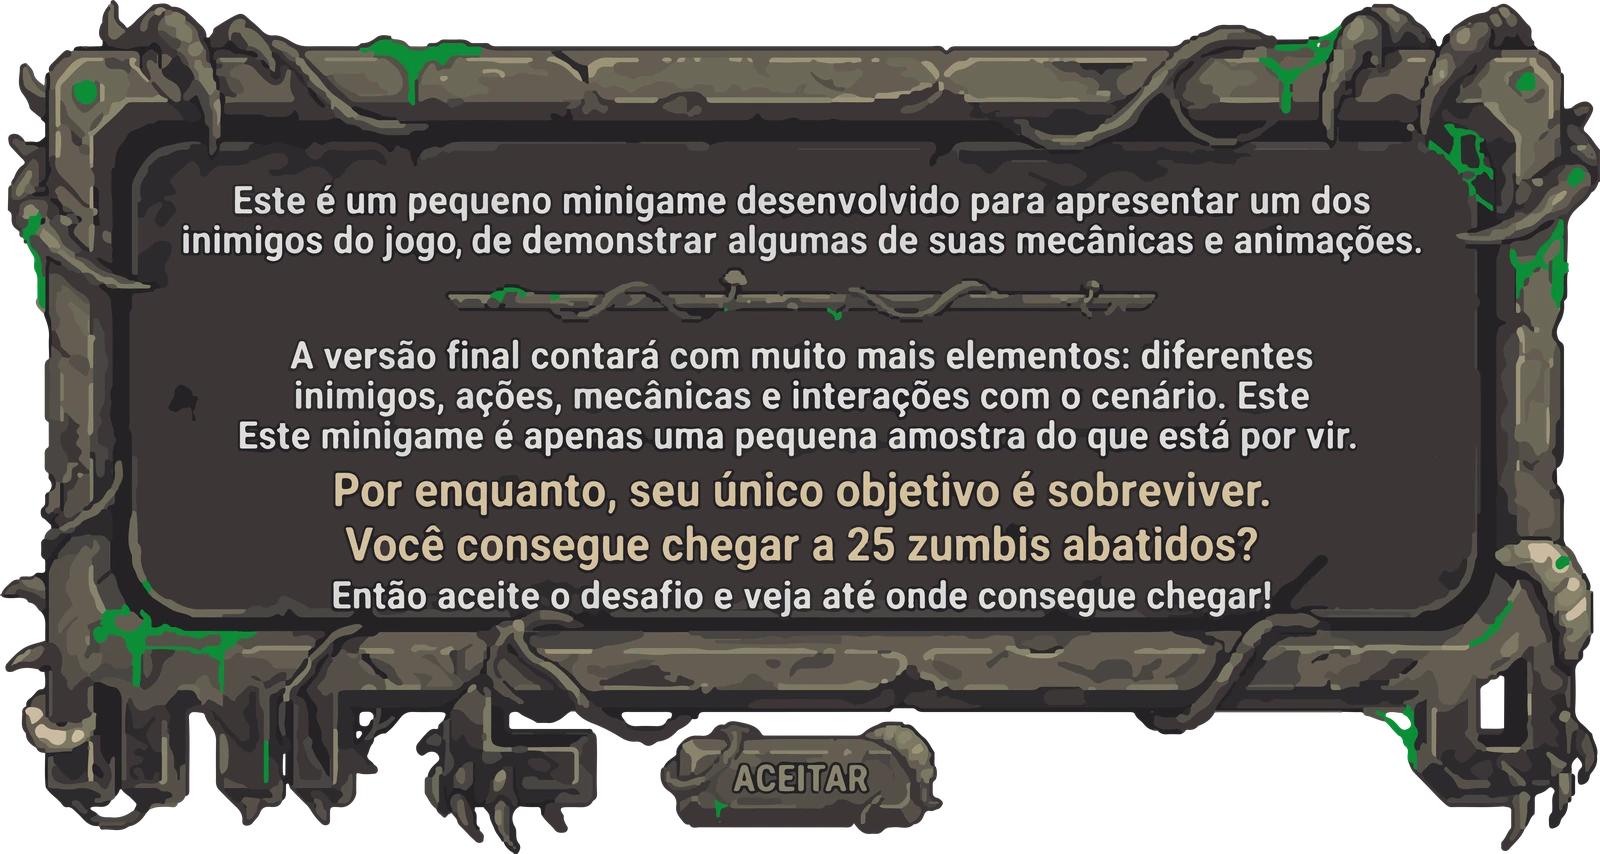
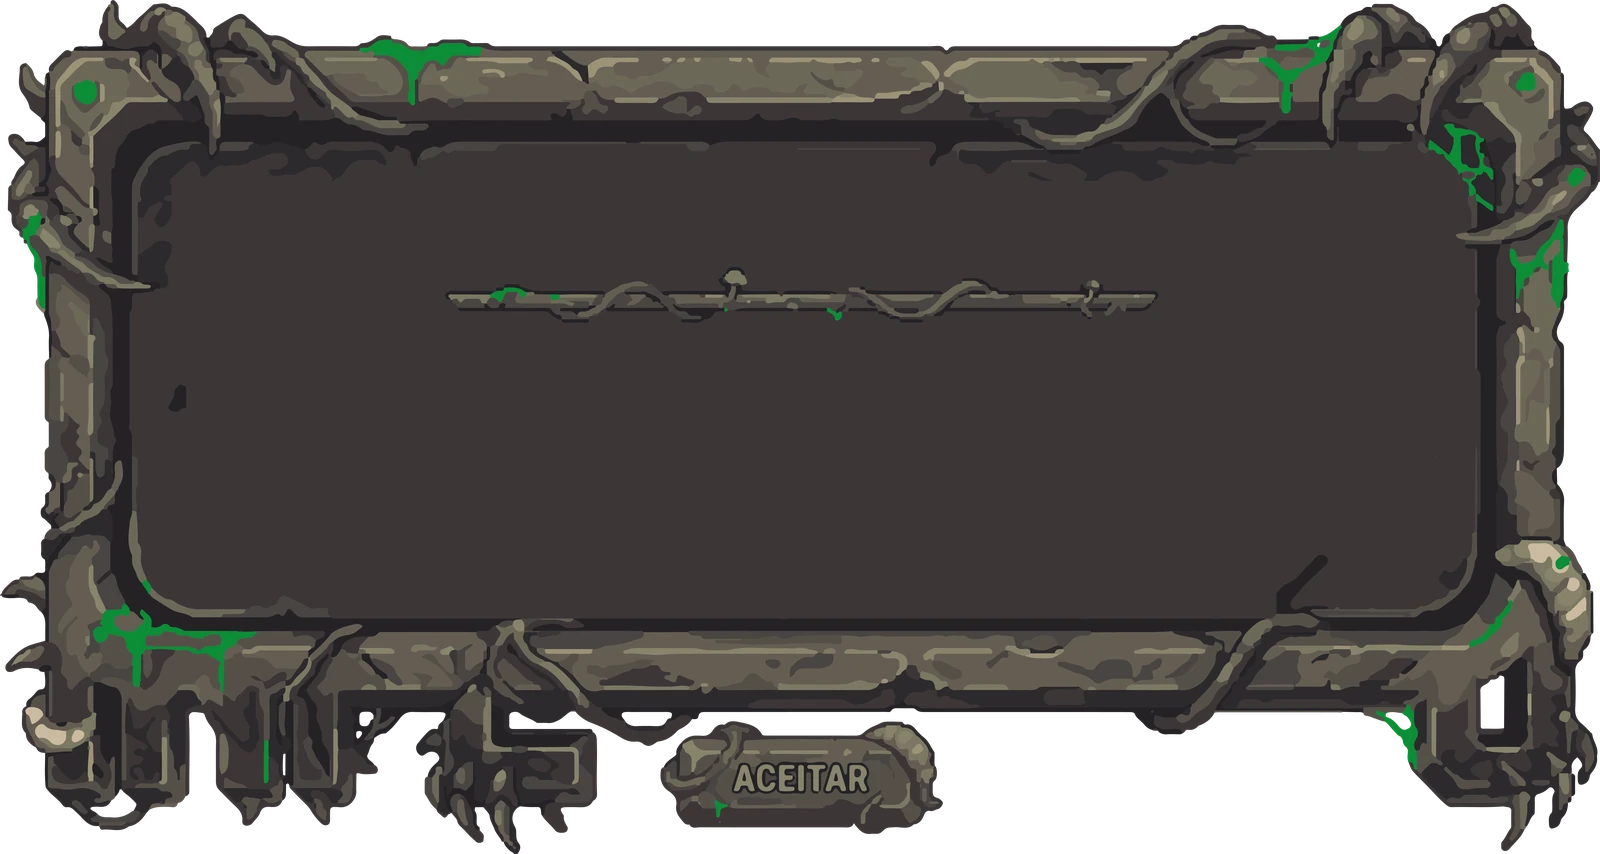
Placa do minigame: arte nova sem texto + texto revisado aplicado por cima (PT/EN)
Claude-Session: https://claude.ai/code/session_01DstFmW5tX6ZHGuroGRv8iB

Changed region(s): [[0.125, 0.3958, 0.8438, 0.7307], [0.0938, 0.2131, 0.9062, 0.3044]]

diff --git a/js/game.js b/js/game.js
@@ -835,8 +835,15 @@
     warn.innerHTML = `
       <div class="gwarn__backdrop"></div>
       <div class="gwarn__box" role="dialog" aria-modal="true" aria-label="Infestação — minigame">
-        <img class="gwarn__img" src="assets/game/placa_aviso.webp" width="1600" height="854"
-          alt="Este é um pequeno minigame desenvolvido para apresentar um dos inimigos do jogo e demonstrar algumas de suas mecânicas e animações. A versão final contará com muito mais elementos. Por enquanto, seu único objetivo é sobreviver. Você consegue chegar a 25 zumbis abatidos?">
+        <img class="gwarn__img" src="assets/game/placa_aviso.webp" width="1600" height="854" alt="">
+        <div class="gwarn__text">
+          <p class="gwarn__top" data-w="p1"></p>
+          <div class="gwarn__bottom">
+            <p data-w="p2"></p>
+            <p class="gwarn__gold" data-w="p3"></p>
+            <p data-w="p4"></p>
+          </div>
+        </div>
         <button type="button" class="gwarn__ok"><img src="assets/game/aceitar.png" alt="Aceitar" width="560" height="224"></button>
         <button type="button" class="gwarn__x" aria-label="Fechar">×</button>
       </div>`;
@@ -848,8 +855,27 @@
       if (e.key === "Escape") { e.preventDefault(); closeWarn(); }
     });
   }
+  const WARN_TXT = {
+    pt: {
+      p1: "Este é um pequeno minigame desenvolvido para apresentar um dos inimigos do jogo, além de demonstrar algumas de suas mecânicas e animações.",
+      p2: "A versão final contará com muito mais elementos: diferentes inimigos, ações, mecânicas e interações com o cenário. Este minigame é apenas uma pequena amostra do que está por vir.",
+      p3: "Por enquanto, seu único objetivo é sobreviver.<br>Você consegue chegar a 25 zumbis abatidos?",
+      p4: "Então aceite o desafio e veja até onde consegue chegar!",
+      ok: "Aceitar"
+    },
+    en: {
+      p1: "This is a small minigame made to introduce one of the game's enemies and to show off some of its mechanics and animations.",
+      p2: "The final version will have much more: different enemies, actions, mechanics and interactions with the environment. This minigame is just a small taste of what's coming.",
+      p3: "For now, your only goal is to survive.<br>Can you reach 25 zombies killed?",
+      p4: "Then accept the challenge and see how far you can go!",
+      ok: "Accept"
+    }
+  };
   function showWarn(from) {
     buildWarn();
+    const w = WARN_TXT[lang()];
+    warn.querySelectorAll("[data-w]").forEach((el) => (el.innerHTML = w[el.dataset.w]));
+    warn.querySelector(".gwarn__ok img").alt = w.ok;
     warnFrom = from || null;
     warn.hidden = false;
     document.documentElement.classList.add("game-open");

diff --git a/index.html b/index.html
@@ -58,8 +58,8 @@ Send me the code: SOUCURIOSOGBDRACCO so I know you saw this message!
   <link rel="apple-touch-icon" href="assets/img/apple-touch-icon.png" />
   <link rel="preconnect" href="https://fonts.googleapis.com" />
   <link rel="preconnect" href="https://fonts.gstatic.com" crossorigin />
-  <link href="https://fonts.googleapis.com/css2?family=Space+Grotesk:wght@400;500;600;700&family=JetBrains+Mono:wght@400;600&display=swap" rel="stylesheet" />
-  <link rel="stylesheet" href="css/style.css?v=20260926c" />
+  <link href="https://fonts.googleapis.com/css2?family=Space+Grotesk:wght@400;500;600;700&family=JetBrains+Mono:wght@400;600&family=Signika:wght@500;600&display=swap" rel="stylesheet" />
+  <link rel="stylesheet" href="css/style.css?v=20260926d" />
 </head>
 <body>
   <div class="bg-grid" aria-hidden="true"></div>
@@ -201,10 +201,10 @@ Send me the code: SOUCURIOSOGBDRACCO so I know you saw this message!
   <!-- Camada da personagem (fase 3) -->
   <div id="spider-layer" aria-hidden="true"></div>
 
-  <script src="js/i18n.js?v=20260926c"></script>
-  <script src="js/data.js?v=20260926c"></script>
-  <script src="js/main.js?v=20260926c"></script>
-  <script src="js/spider.js?v=20260926c"></script>
-  <script src="js/game.js?v=20260926c"></script>
+  <script src="js/i18n.js?v=20260926d"></script>
+  <script src="js/data.js?v=20260926d"></script>
+  <script src="js/main.js?v=20260926d"></script>
+  <script src="js/spider.js?v=20260926d"></script>
+  <script src="js/game.js?v=20260926d"></script>
 </body>
 </html>

diff --git a/css/style.css b/css/style.css
@@ -517,3 +517,13 @@ html.game-open { overflow: hidden; }
 .gwarn__x { position: absolute; top: 2%; right: 2.4%; width: clamp(30px, 4.2%, 42px); aspect-ratio: 1; border-radius: 50%; border: 2px solid rgba(255,255,255,.35);
   background: rgba(10,10,14,.75); color: #eee; font-size: clamp(1rem, 2vw, 1.4rem); line-height: 1; cursor: pointer; display: grid; place-items: center; transition: background .15s, border-color .15s, transform .15s; }
 .gwarn__x:hover, .gwarn__x:focus-visible { background: #8e1b1b; border-color: #ff5a4a; transform: scale(1.08); outline: none; }
+/* texto da placa (sobre a arte sem texto) */
+.gwarn__box { container-type: inline-size; }
+.gwarn__text { position: absolute; left: 12%; right: 12%; top: 16.5%; bottom: 28%; pointer-events: none;
+  font-family: "Signika", "Space Grotesk", system-ui, sans-serif; font-weight: 500; text-align: center; color: #ece5d8;
+  font-size: 2.15cqw; line-height: 1.22; font-kerning: normal;
+  text-shadow: 0 .12cqw 0 #1b1718, 0 0 .5cqw rgba(0,0,0,.55); }
+.gwarn__text p { margin: 0; }
+.gwarn__top { position: absolute; left: 0; right: 0; top: 0; height: 30%; display: grid; place-content: center; }
+.gwarn__bottom { position: absolute; left: 0; right: 0; top: 38%; bottom: 0; display: flex; flex-direction: column; justify-content: center; gap: .9cqw; }
+.gwarn__gold { color: #dcc38f; font-weight: 600; font-size: 1.16em; line-height: 1.25; }
